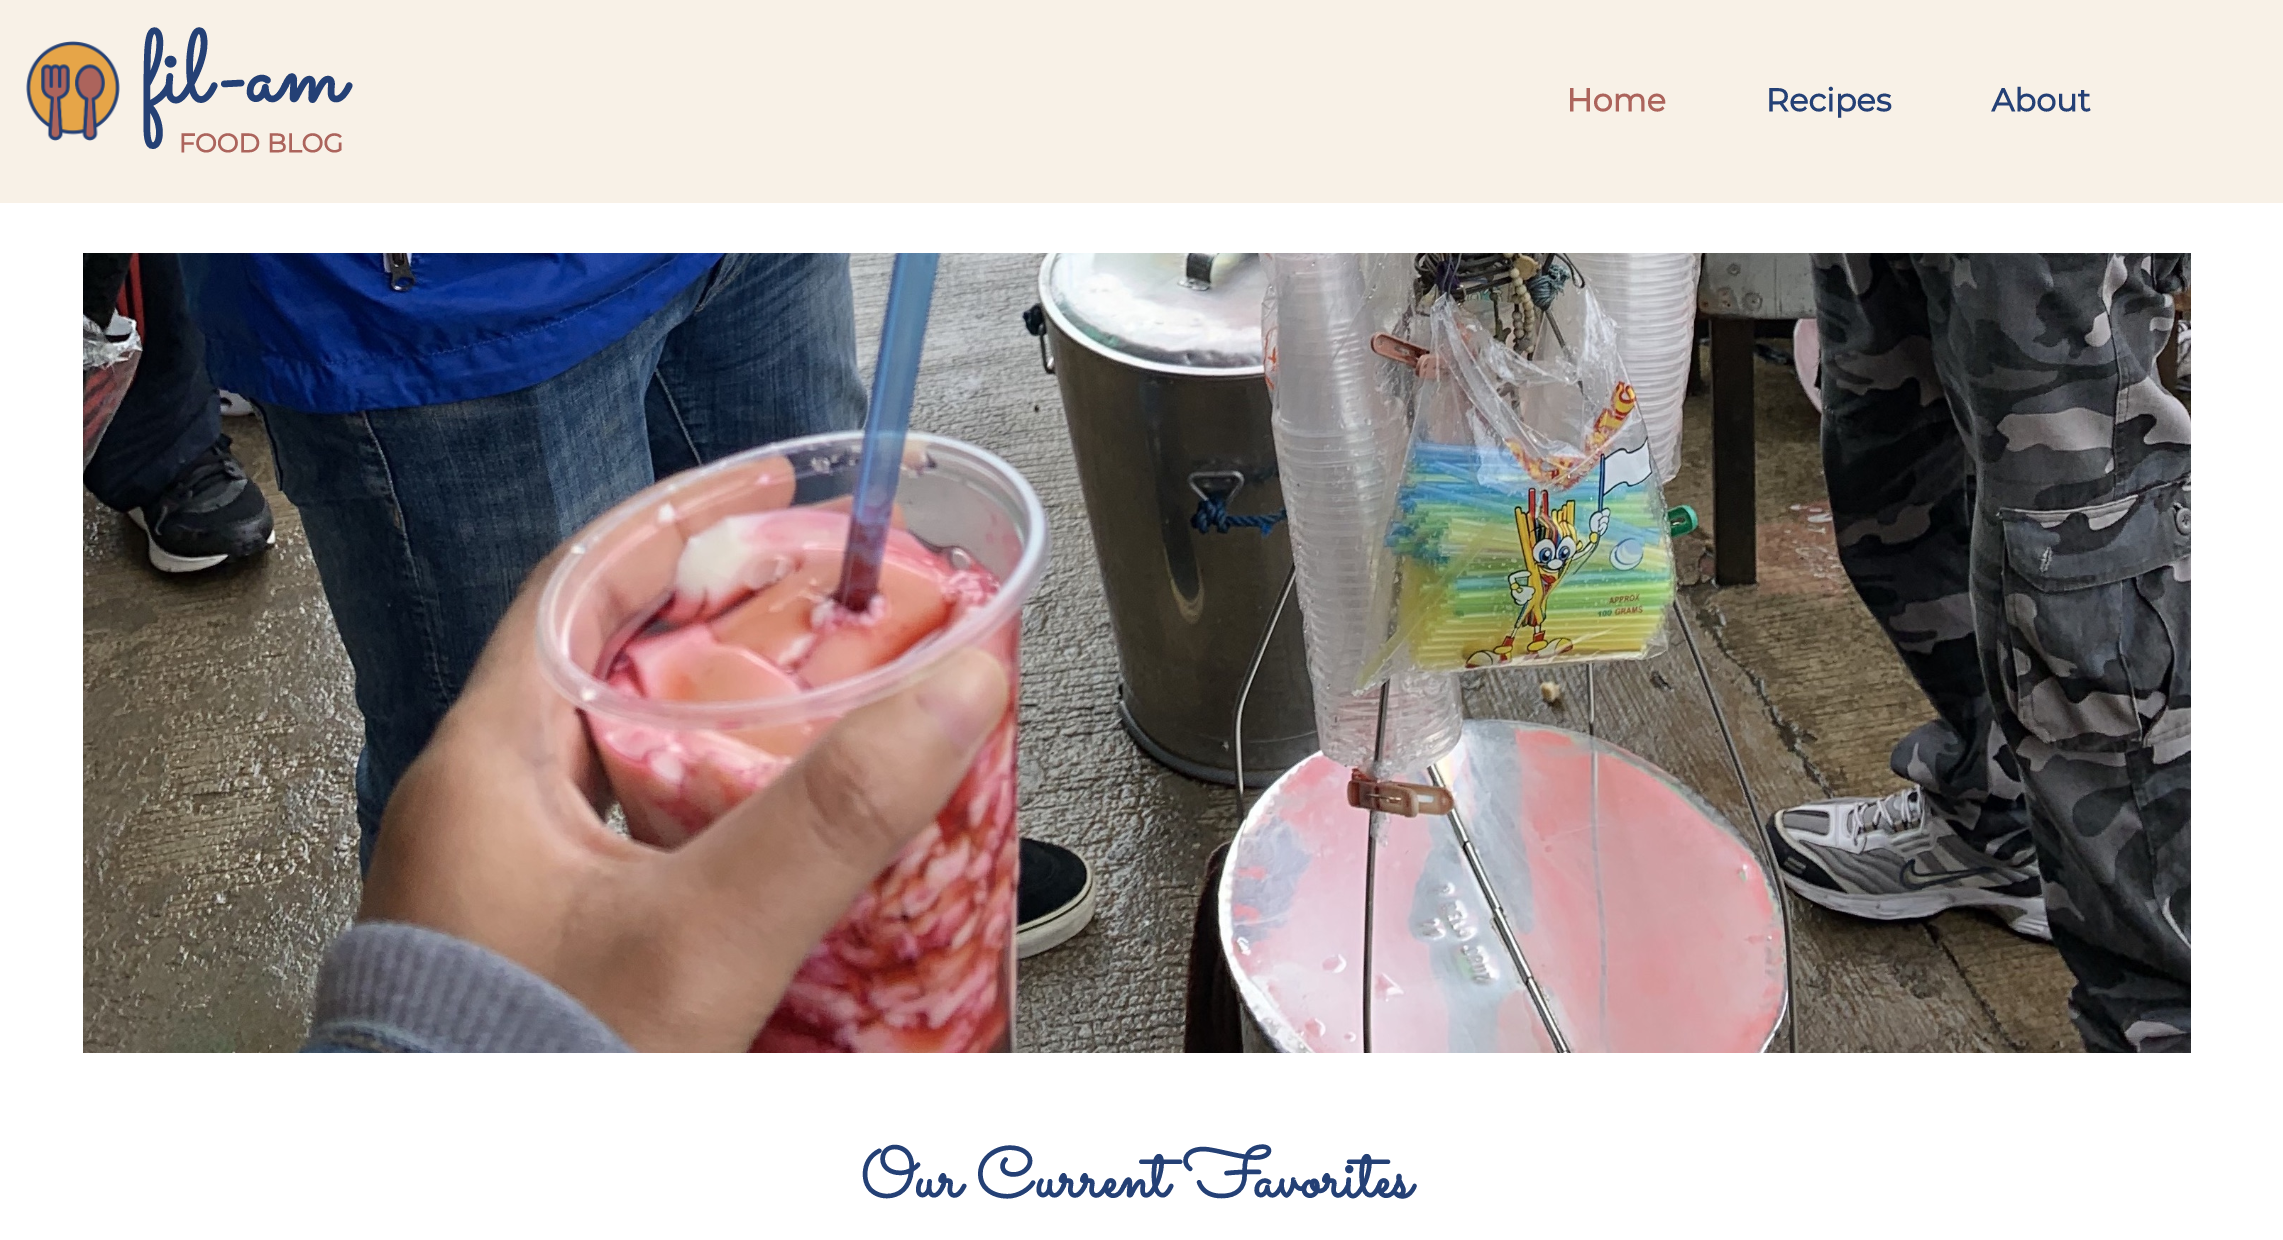
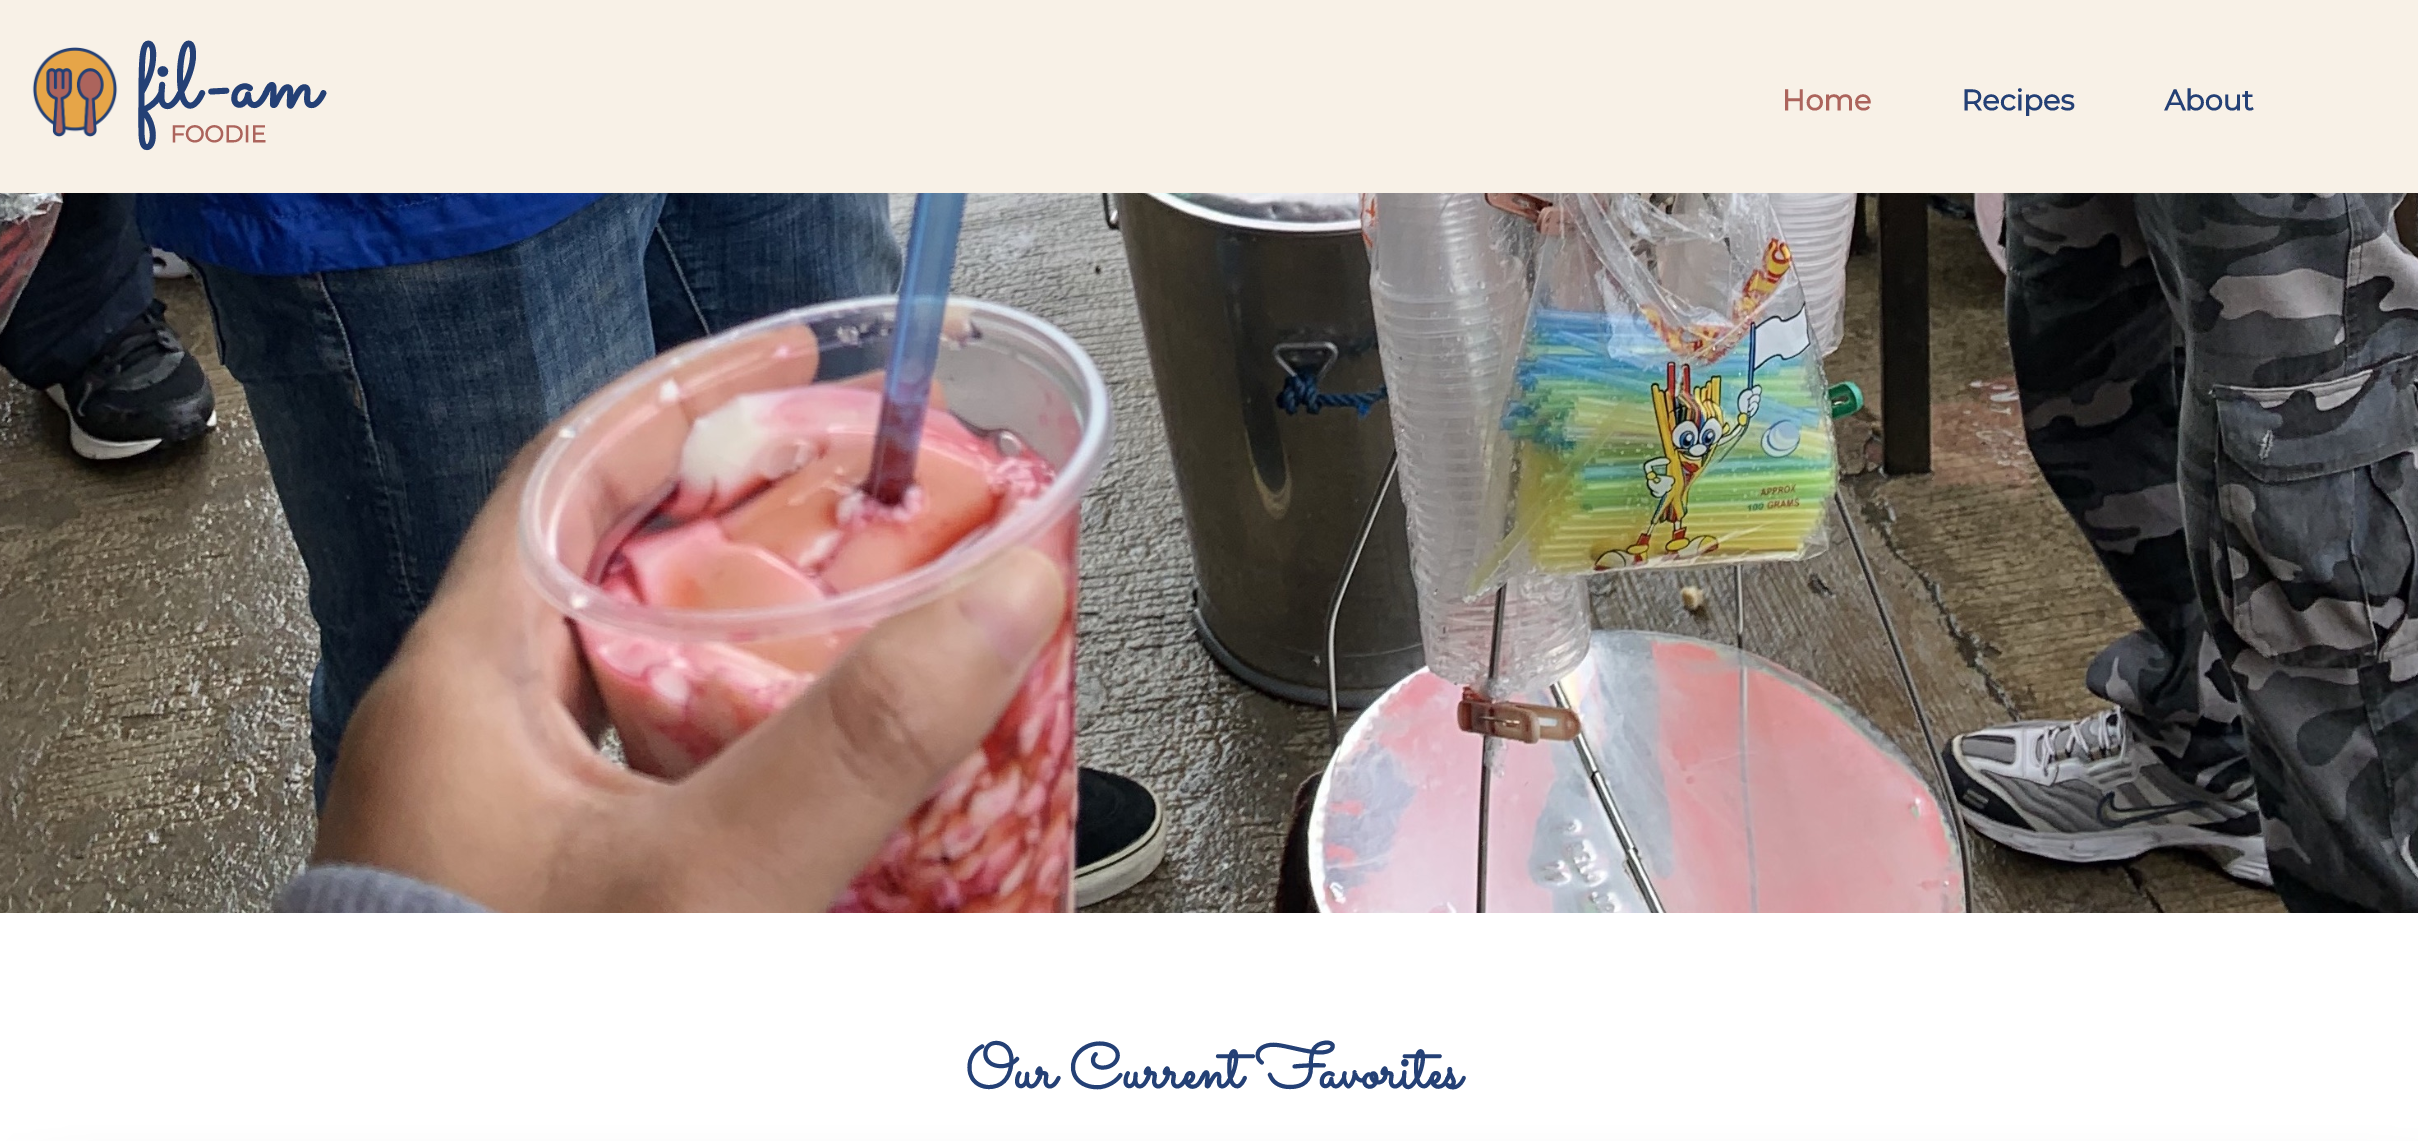
update portfolio with food blog name change

diff --git a/portfolio/src/components/project-components/Project1.js b/portfolio/src/components/project-components/Project1.js
@@ -6,12 +6,12 @@ const Project1 = () => {
         <div>
             <Header />
             <div className='body-container'>
-                <h1 className='mt-4 mb-4 text-center'>Fil-Am Food Blog</h1>
-                <img className='project-hero' src='./images/foodblog.png' alt='homepage of Fil-Am Food Blog'/>
+                <h1 className='mt-4 mb-4 text-center'>Fil-Am Foodie</h1>
+                <img className='project-hero' src='./images/foodblog.png' alt='homepage of Fil-Am Foodie'/>
                 <h3 className='mt-4'>Project Description</h3>
-                <p><i>Fil-Am Food Blog</i> features Filipino American food and drink recipes, as well as personal stories of our travels to the Philippines and eating delicious food! My fiancé, Gian, and I came up with the idea for the blog, because we wanted to share our passion for Filipino food, and we also wanted a place to preserve our family recipes. It was also another chance for me to develop my coding skills, as I wanted to build another MERN stack app!
+                <p><i>Fil-Am Foodie</i> features Filipino American food and drink recipes, as well as personal stories of our travels to the Philippines and eating delicious food! My fiancé, Gian, and I came up with the idea for the blog, because we wanted to share our passion for Filipino food, and we also wanted a place to preserve our family recipes. It was also another chance for me to develop my coding skills, as I wanted to build another MERN stack app!
                 </p>
-                <p>What makes <i>Fil-Am Food Blog</i> unique is the user interface. Have you ever searched for a recipe online only to land on a page where you have to scroll all the way to the bottom to actually see the recipe? We wanted to design our site so that the recipes come first, and the stories and detailed instructions come second. Users are also able to write comments on each recipe, and interact with other users. For future development, we also plan to build features such as the ability to add ingredients into an online shopping cart, which would make cooking super convenient!  
+                <p>What makes <i>Fil-Am Foodie</i> unique is the user interface. Have you ever searched for a recipe online only to land on a page where you have to scroll all the way to the bottom to actually see the recipe? We wanted to design our site so that the recipes come first, and the stories and detailed instructions come second. Users are also able to write comments on each recipe, and interact with other users. For future development, we also plan to build features such as the ability to add ingredients into an online shopping cart, which would make cooking super convenient!  
                 </p>
                 <h3 className='mt-4'>My Role</h3>
                 <p>
@@ -29,9 +29,9 @@ const Project1 = () => {
                 </ul>
                 <h3 className='mt-4'>Links</h3>
                 <p>Check out the website:
-                <a href='https://www.filamfoodblog.com' target='_blank' rel='noreferrer' className='blue-link'> https://www.filamfoodblog.com</a>
+                <a href='https://www.filamfoodie.com' target='_blank' rel='noreferrer' className='blue-link'> https://www.filamfoodie.com</a>
                 </p>
-                <p>Github Repo: <a href='https://github.com/stephtf/the-fil-am-food-blog' target='_blank' rel='noreferrer' className='blue-link'>https://github.com/stephtf/the-fil-am-food-blog</a></p>
+                <p>Github Repo: <a href='https://github.com/stephtf/fil-amfoodie' target='_blank' rel='noreferrer' className='blue-link'>https://github.com/stephtf/fil-amfoodie</a></p>
                
                 </div>
             <Footer />

diff --git a/portfolio/src/components/Projects.js b/portfolio/src/components/Projects.js
@@ -10,7 +10,7 @@ function Projects() {
           <div className='project-res mx-auto'>
             <NavLink to='/project-1' className='link-styles'>
               <img className='project-thumbnails mt-4' src='images/filamblog.png' alt='website logo for Fil-Am Food Blog'/>
-              <p className='mb-4 project-titles'>Fil-Am Food Blog</p>
+              <p className='mb-4 project-titles'>Fil-Am Foodie</p>
             </NavLink>
             <NavLink to='/project-2' className='link-styles'>
               <img className='project-thumbnails mt-4' src='images/mm-thumb.png' alt='a woman working on a computer'/>
